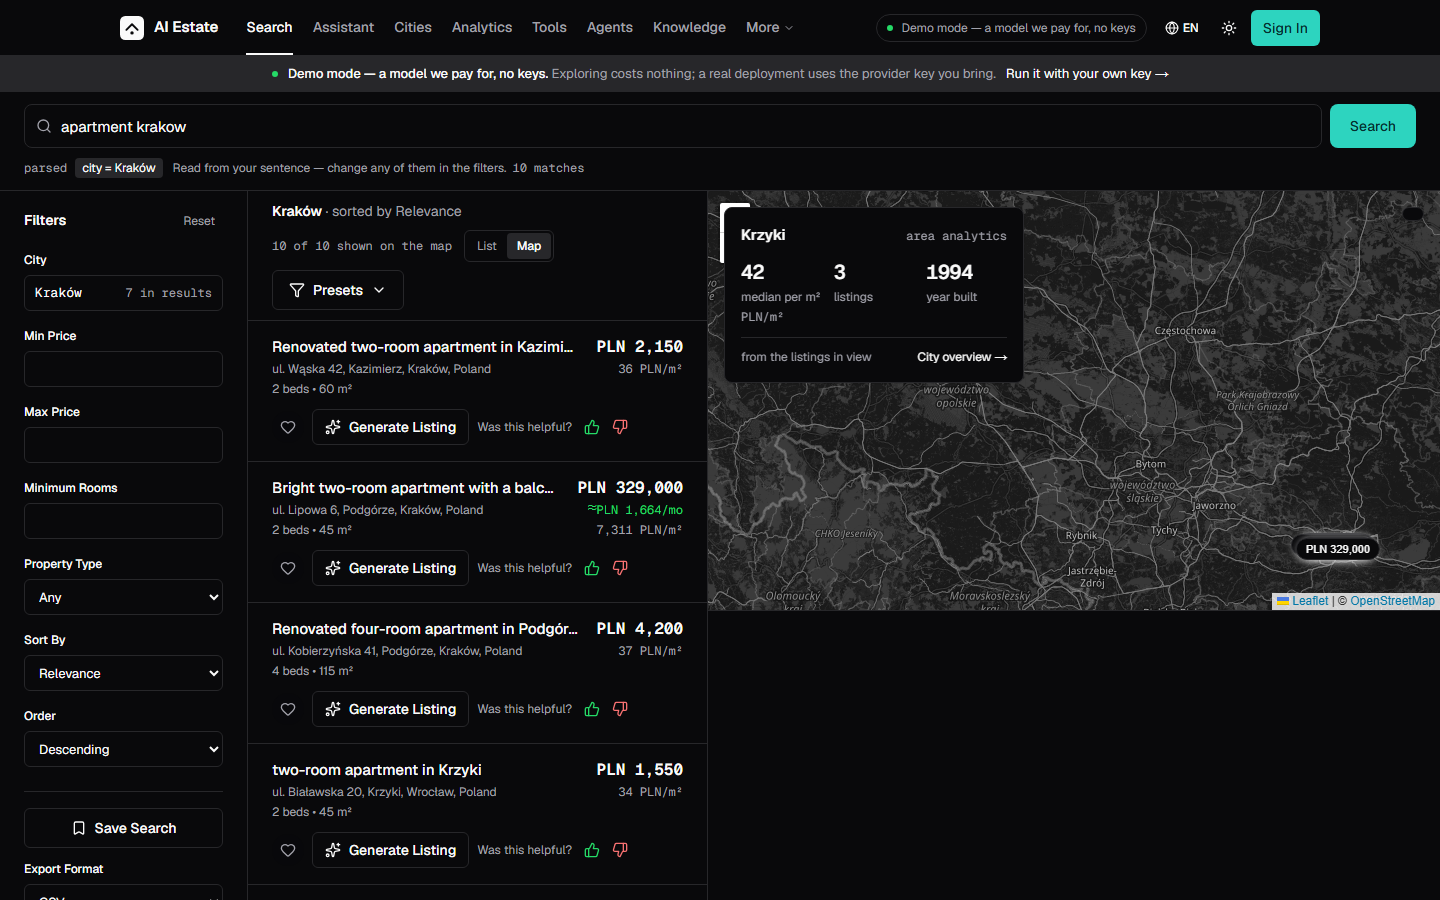
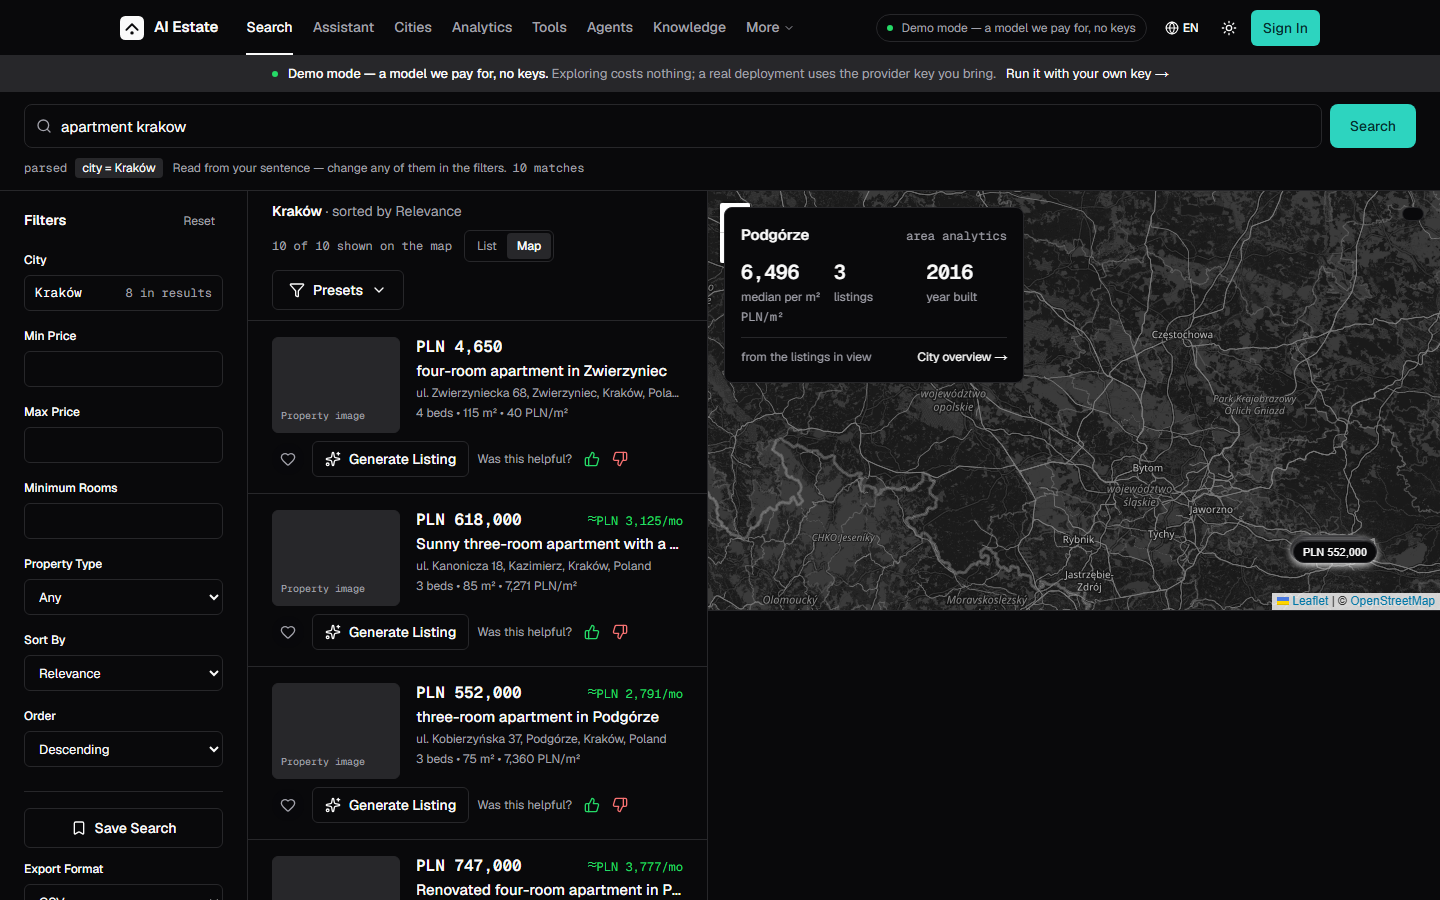
docs(design): the acceptance of 2026-11-18, with the row the design draws
The search row opens with the photo slot the prototype gives the picture,
the district choropleth scaffold is retired, and the two gaps that were
named are closed with what was measured: the Mapbox variant is a
configuration the unit suite covers both ways, and this machine's missing
IPv6 route does not reach the product - the browser falls back to IPv4 and
the tiles arrive.

The capture gives a map route a browser context of its own and asks once
more when a map paints nothing: the tile host refuses a session now and
then, and a shot of an empty canvas says nothing about the application.

The shots are the evidence again, all 96 of them, and the twelve maps
among them draw their tiles.

diff --git a/scripts/ops/acceptance_capture.js b/scripts/ops/acceptance_capture.js
@@ -121,7 +121,25 @@ async function capture(browser, viewport, theme) {
     const file = path.join(OUT, `${route.name}-${viewport.name}-${theme}.png`);
     try {
       await page.goto(`${BASE}${route.url}`, { waitUntil: "load", timeout: 45000 });
-      const tiles = ROUTES_WITH_MAP.has(route.name) ? await waitForMapTiles(page) : { total: 0, painted: 0 };
+      let tiles = ROUTES_WITH_MAP.has(route.name)
+        ? await waitForMapTiles(page)
+        : { total: 0, painted: 0 };
+
+      // The tile host refuses a session now and then - measured: a browser
+      // that asked for tiles is answered with 408 and paints none of them,
+      // and the refusal is intermittent, so it can hit a session that had
+      // not asked for anything yet. A map that painted nothing gets one
+      // more attempt, in a session of its own; a map that still paints
+      // nothing is a finding, and the shot records it.
+      if (ROUTES_WITH_MAP.has(route.name) && tiles.painted === 0) {
+        console.log(`  ${route.name} ${viewport.name} ${theme} - no tiles, asking again`);
+        await context.close();
+        context = await newContext(browser, viewport, theme);
+        page = await context.newPage();
+        await page.goto(`${BASE}${route.url}`, { waitUntil: "load", timeout: 45000 });
+        tiles = await waitForMapTiles(page);
+      }
+
       await page.waitForTimeout(2500);
       await page.screenshot({ path: file, fullPage: false });
       const map = tiles.total > 0 ? ` map:${tiles.painted}/${tiles.total} tiles` : "";
@@ -172,13 +190,7 @@ async function waitForMapTiles(page) {
 
 async function main() {
   fs.mkdirSync(OUT, { recursive: true });
-  // Chromium resolves IPv6 first where the tile host offers it. A machine
-  // whose IPv6 path is broken gets no answer at all from that address - the
-  // request stalls and comes back 408, and the map never paints - so the
-  // shot would show an empty canvas that says nothing about the
-  // application. The shot is about the application: the browser is put on
-  // the address family that works here.
-  const browser = await chromium.launch({ headless: true, args: ["--disable-ipv6"] });
+  const browser = await chromium.launch({ headless: true });
   const failures = [];
 
   for (const theme of THEMES) {

diff --git a/docs/reviews/design-acceptance-2026-11-18.md b/docs/reviews/design-acceptance-2026-11-18.md
@@ -24,15 +24,17 @@ measurements the analyser takes and the accessibility the axe-core gate now prov
 
 **How each verdict was reached.** Every route was opened in the running application and shot at
 1440 and 390, in light and in dark. Each shot was then compared, pixel by pixel, with the
-previous acceptance's shot of the same route: **20 of the 96 are identical to 2026-11-10**, and the
-76 that changed were read against the prototype. Three things account for the change, and none of
+previous acceptance's shot of the same route: **23 of the 96 are identical to 2026-11-10**, and the
+ones that changed were read against the prototype. Five things account for the change, and none of
 them is a layout that moved:
 
 | The change | Where it shows |
 |---|---|
-| The maps draw their tiles — on 2026-11-10 they were empty canvases | the city overview changed most (42–52 % of its pixels), the search page 14–16 %, the landing 10–12 % |
+| The maps draw their tiles — on 2026-11-10 they were empty canvases | the city overview changed most (42–52 % of its pixels), the search page 9–17 %, the landing 10–12 % |
+| The demo catalogue is regenerated every time the stack starts, so the routes that show listings carry different numbers | the agents, the favourites, the leads, the saved searches — the layout is the same, the data is not |
 | The footer's last line changed — "The hosted version is in development by NestLab" became "in deployment by" — which shifts the waitlist block above it | the same band on every page, 2.3–2.5 % of its pixels |
 | The muted text and the status colours moved to their AA shades | the rest, in the text |
+| The search row opens with the photo slot | the search page's rows |
 
 A route whose shot did not change keeps the verdict it had; a route whose shot changed was judged
 again.
@@ -49,7 +51,7 @@ analyser reads every token definition in the artefact and finds the repository t
 | Token definitions read in the prototype | 13 | 13 |
 | Matched a repository token by colour | 12 | 12 |
 | Without a counterpart | 1 — `--tilef`, the CSS filter the prototype puts on the map tiles. It is not a colour; the repository applies the same filter in code (`components/ui/map-tile-theme.tsx`), not as a token | the same |
-| Repository tokens without a counterpart in the artefact | 83 | 83 |
+| Repository tokens without a counterpart in the artefact | 83 | 81 |
 
 The twelve that matched are `--ac` → `--action`, `--acf` → `--action-foreground`, `--bd` →
 `--border`/`--input`, `--bg` → `--background`/`--card`, `--c1` → `--chart-1`, `--er` →
@@ -108,7 +110,7 @@ application has them.
 | Route | Prototype | What the application shows | Verdict |
 |---|---|---|---|
 | `/` | Landing | The hero, the six-row feature ledger, "Data and coverage, as of today" (read from `/catalogue/stats`), the four-state comparison table, the studio strip, the FAQ, the footer — and the hero instrument, whose map now draws its tiles and states the price on every pin | matches |
-| `/en/search` | Search | The sentence input with the parsed filters, the filter column, the result list, the map — with the tiles painted. The row states the listing in text where the prototype's row carries a picture | acceptable deviation |
+| `/en/search` | Search | The sentence input with the parsed filters, the filter column, the result list, the map — with the tiles painted. The row opens with the photo slot the design gives the picture, the price and its monthly estimate on the first line, the listing under it | matches |
 | `/en/chat` | Chat | The suggestion row, the message stream, the composer — at 1440 and at 390 | matches |
 | `/en/tools` | Tools | The five calculators as a ledger, each marked `ready` or `needs config` | matches |
 | `/en/analytics` | Analytics | The same five calculators in one console, with the tabs the prototype draws | matches |
@@ -132,17 +134,18 @@ application has them.
 | `/en/admin/data-sources` | Admin | The admin shell, the data sources and the portals | matches |
 | `/en/admin/monitoring` | Admin | The admin shell, the health, the readiness, the deployment | matches |
 
-**The two deviations.** The prototype's agent analytics is an agent's dashboard, and the API keeps
+**The one deviation.** The prototype's agent analytics is an agent's dashboard, and the API keeps
 it for agents and administrators: an ordinary account gets `403` for every one of its calls. The
 page says what it is — the view belongs to an agent — and offers no retry, because retrying will
 not help. `apps/web/src/app/[locale]/agent-analytics/page.tsx`.
 
-The prototype's search row opens with a picture of the listing. The application's row states the
-listing in text — the title, the address, the facts, the price, the monthly cost and the price per
-m², in mono — and the demo catalogue holds no photographs to draw. The search ledger draws no empty
-cell for a picture it does not have; the agent ledger, whose catalogue entries do carry pictures,
-draws the cell. This is the same deviation the acceptance of 2026-11-10 accepted, and it is
-written down here rather than passed over.
+**The deviation that is now closed.** The prototype's search row opens with a picture of the
+listing, and the row carried no slot for it at all — the one region the design gives the picture
+was the one region the application was missing. The row now opens with the slot: 128 pixels wide,
+holding the placeholder the other photo slots of the product use, and holding the photograph
+itself the day a listing carries one. The price and its monthly estimate moved onto the first line
+of the listing's column, the way the prototype carries them, so that the picture's width does not
+come out of the title's.
 
 ---
 
@@ -151,8 +154,9 @@ written down here rather than passed over.
 | The defect | The cause | The fix |
 |---|---|---|
 | The maps drew no tiles in the shots — the search map and the city overview were empty canvases | the capture shot the page 2.5 seconds after it loaded, and Leaflet fetches its tiles afterwards — from a tile host that answers in ten seconds or more | `scripts/ops/acceptance_capture.js` now waits for the tiles the map asked for, and reports what it found (`map:12/12 tiles`); the shots show the maps a visitor sees |
-| The tiles the map asked for came back `408`, and the map painted none of them | the browser resolves IPv6 first, and this machine's IPv6 path is broken: the request to the tile host stalls and the host answers `408` instead of the tile. The same URLs answer `200` over IPv4, and `curl -6` fails to connect at all | `scripts/ops/acceptance_capture.js` — the browser is put on the address family that works here, because the shot is about the application and the network's answer is not the application's |
-| The third map in a pass was refused even over IPv4 — its tiles came back `408` while the same route painted them in a browser of its own | the tile host refuses a browser session that has already asked for tiles: measured, the first map in a pass painted, the second was refused, the third was refused outright | `scripts/ops/acceptance_capture.js` — a map route gets a browser context of its own; the routes without a map still share one |
+| The tiles the map asked for came back `408`, and the map painted none of them | the tile host refuses a browser session that has already asked for tiles: measured, the first map in a pass painted, the second was refused, and the third was refused outright, every request answered with `408` and an empty body | `scripts/ops/acceptance_capture.js` — a map route gets a browser context of its own, and a map that still paints nothing is asked once more; the routes without a map still share one context |
+| The search row had no slot for the picture the design gives it | the row was the one region of the design the application was missing: the prototype opens the row with a 128-pixel picture, and the row drew none | `components/search/results-ledger.tsx` — the row opens with the slot; the price and its monthly estimate moved onto the listing's first line, the way the prototype carries them |
+| A district choropleth stood in the product that no map drew | it was a scaffold, not a feature: a Mapbox-only layer nothing imported, an aggregation library whose own comment says it would load real GeoJSON in production and whose districts are five rectangles around Warsaw, and the tokens it painted itself | retired — the layer, the library, its test, the three tokens and the palette entries are gone; the design's map is the markers and the area panel, and both ship |
 | The design analyser crashed on the prototype | the prototype's `theme.css` explains itself in a comment — "the pages keep their historical literals inside `var(--token, #hex)`" — and the analyser read the prose as a token definition, then failed on a value that is not a colour | `scripts/design/design_gap.py` strips the comments and returns nothing for a value that is not hex |
 | The status colours failed AA as small text — 32 nodes | the tokens sat at the 600 shade of their hue, the prototype's own values | the tokens moved to the 700 shade of the same hue; the contrast table above is the measurement |
 | The accessible names left out the text the reader sees — 37 nodes | the language switcher's name left out the code it shows, and the user menu's name left out the account it shows; the initials and the account's name were one word in the DOM | `components/ui/language-switcher.tsx`, `components/auth/UserMenu.tsx` |
@@ -189,6 +193,7 @@ findings, all fixed. The full account is in `ACCESSIBILITY.md`.
 | The type scale as Tailwind tokens | the `--text-*` tokens are the analyser's; no drift |
 | The focus ring is the accent | `--ring` is the teal of `--action`, and every interactive primitive uses it |
 | The map's tiles are grey, and inverted in the dark theme | `components/ui/map-tile-theme.tsx` puts the filter on the tile pane, and the dark shots show the inverted map |
+| The property card is photo + price + details + location link | the search row opens with the photo slot, the price and its monthly estimate are the first line of the listing's column, and the address and the facts follow it |
 
 ## The live sweep
 
@@ -204,11 +209,17 @@ account and creates no lead.
 
 | The gap | Where it stands |
 |---|---|
-| The Mapbox path is dormant: the stack carries no `NEXT_PUBLIC_MAPBOX_TOKEN`, so the shipping map is the Leaflet one and the district choropleth (`components/search/district-boundary-layer.tsx`, `lib/district-aggregation.ts` — five hardcoded Warsaw rectangles) never draws | named, not built: the plan never had a token, and a feature the plan did not have is not built in an acceptance |
-| The demo catalogue holds no photographs, so the search row states the listing in text where the prototype's row carries a picture | named as a deviation above: the component draws no empty cell for an image it does not have; the agent ledger, whose catalogue entries do have pictures, draws the cell |
 | The tile host is a third party and it is slow: the tiles of a map that first drew at one zoom and then fitted its bounds arrive ten seconds or more after the page did | the capture waits for them and reports what it found; the e2e test separates "the map asked for nothing" (the product is broken) from "the host refused" (the network is) |
-| The tile host is reached over IPv6 where the browser offers it, and this machine's IPv6 path is broken — the request stalls and the host answers `408` rather than failing fast, so the browser never falls back to IPv4 | the capture puts the browser on IPv4; the finding is in the report because the same machine will show an empty map in any browser until its IPv6 path is repaired — the application's own map code is not involved |
-| The tile host refuses a browser session that has already asked for tiles — a third map in a pass is answered with `408` while the same route paints in a browser of its own | the capture gives a map route its own context; a visitor's own browser asks for one map's worth of tiles and is answered |
+| The tile host refuses a browser session now and then — a map is answered with `408` and paints none of its tiles, and the refusal is intermittent enough that it can hit a session that had asked for nothing yet | the capture gives a map route its own context and asks once more when a map paints nothing; a visitor's own browser asks for one map's worth of tiles and is answered |
+| The demo catalogue holds no photographs — the API carries no `images` at all, so every photo slot in the product draws its placeholder | the slots are drawn, and a listing that carries a photograph draws it; the catalogue is the demo's own data, and photographs for it are a content question, not a design one |
+| This machine has no IPv6 route: the Wi-Fi adapter's IPv6 binding is off, there is no `::/0` route, and `curl -6` cannot connect | it does not reach the product: the browser falls back to IPv4 and the tiles arrive (measured, 8/8 painted in 0.8 s, with and without the browser's IPv6 attempt), so the `408`s were the tile host's, not the network's |
+
+**The Mapbox variant is a configuration, not a gap.** The search page draws the Mapbox map when
+`NEXT_PUBLIC_MAPBOX_TOKEN` is set and the Leaflet map when it is not, and the unit suite covers
+both ways (`apps/web/src/app/[locale]/search/__tests__/page.test.tsx`). The demo deployment
+carries no token — a Mapbox token belongs to a paid account — and the design's map is the markers
+and the area panel, which is what the Leaflet map draws. What stood beside it was a choropleth
+the design never asked for, and that is retired.
 
 ## How to reproduce
 
